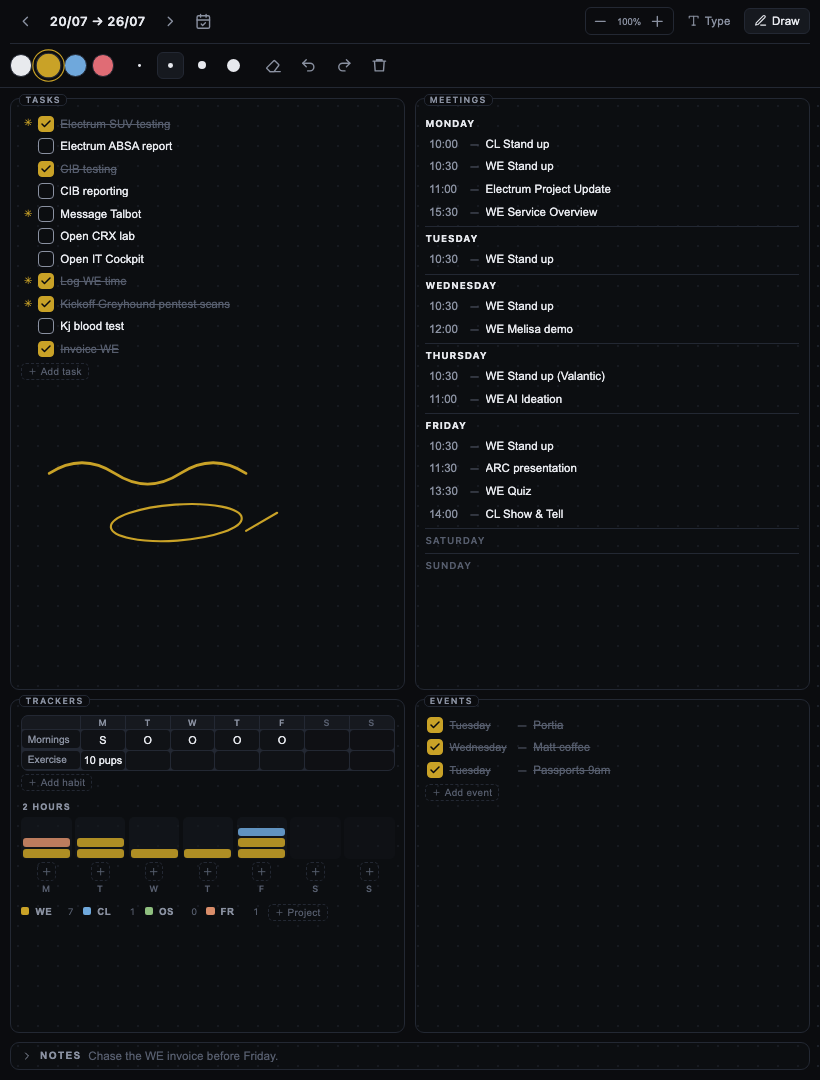
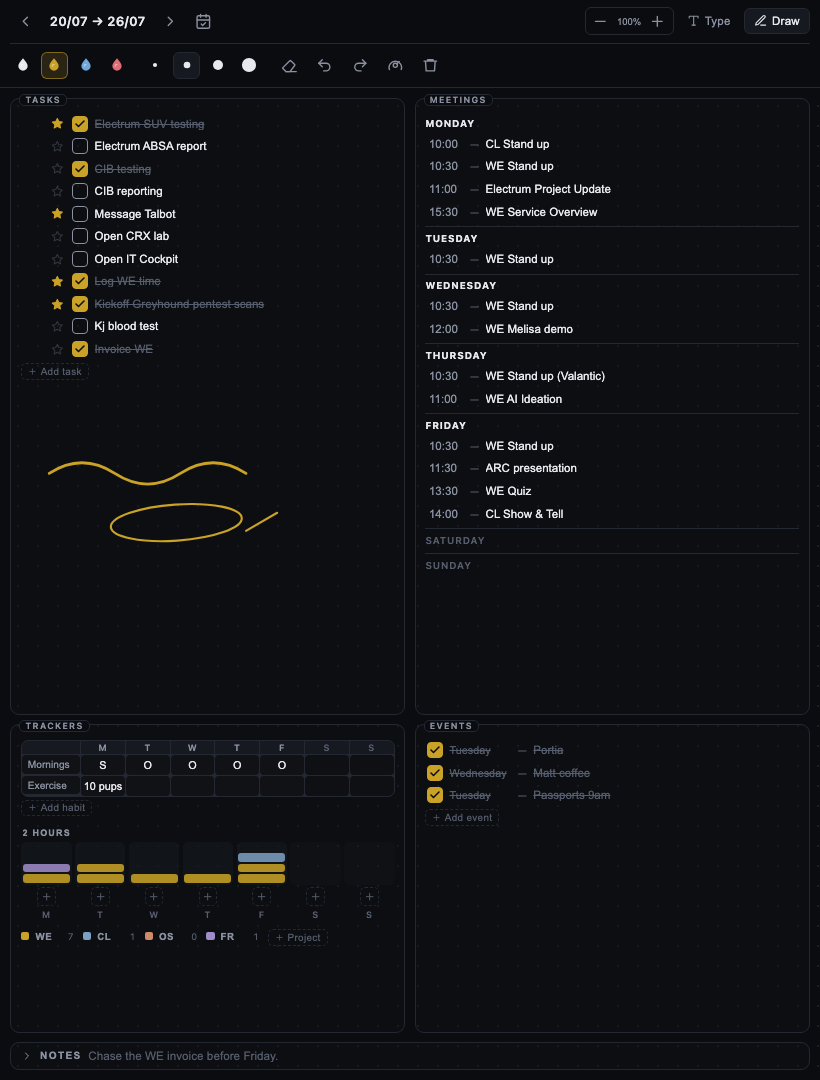
Fix the priority star, drop the greens, drag to reorder tasks, 2:1 rows
The star was a 1em by 1.2em button — about 13 by 16 pixels — drawn as a
text glyph, transparent until hover, and hidden altogether below 560px.
Small wonder it did not work: on a tablet there is no hover and almost
nothing to aim at. It is now a real star icon that is always visible,
hollow when off and filled when on, on a target big enough to hit, and it
stays on narrow screens because priority matters more than the pixels.

The green came from the time chart palette. That palette now runs gold,
steel blue, terracotta, muted purple, rose, slate and sand, with no green
in it.

Tasks can be dragged by a handle on the left to reorder. Pointer events
rather than HTML drag-and-drop, which does not work on a touch screen; the
row moves in the DOM as the pointer crosses its neighbours' midpoints, so
the order you see mid-drag is the order you get, and the model is rewritten
once on release.

The two panels across the top now take two thirds of the page and the foot
takes one.

diff --git a/src/view.ts b/src/view.ts
@@ -20,12 +20,12 @@ import type BulletPlugin from "./main";
 
 const PROJECT_COLORS = [
 	"#c9a227",
-	"#6fa8dc",
-	"#8fbf7f",
-	"#d98d6a",
-	"#a58fd0",
-	"#7fc7c0",
-	"#d07f9e",
+	"#7d9fc4",
+	"#cf8a6a",
+	"#a08cc9",
+	"#c98aa6",
+	"#9a9ab0",
+	"#d4b483",
 ];
 
 const PEN_WIDTH_STEPS = [1.4, 2.4, 4, 6.5];
@@ -532,13 +532,25 @@ export class BulletView extends TextFileView {
 		this.model.tasks.forEach((task, index) => {
 			const row = host.createDiv({ cls: "bl-row bl-task" });
 
+			const grip = row.createEl("button", { cls: "bl-grip" });
+			bulletIcon(grip, "grip");
+			grip.setAttr("aria-label", "Drag to reorder");
+			this.enableRowDrag(grip, row, host, (from, to) => {
+				const [moved] = this.model.tasks.splice(from, 1);
+				this.model.tasks.splice(to, 0, moved);
+				this.renderTasks();
+				this.touch();
+			});
+
 			const star = row.createEl("button", { cls: "bl-star" });
-			star.setText("✳");
+			bulletIcon(star, "star");
 			star.toggleClass("is-on", task.star);
 			star.setAttr("aria-label", "Flag as priority");
+			star.setAttr("aria-pressed", String(task.star));
 			star.onclick = () => {
 				task.star = !task.star;
 				star.toggleClass("is-on", task.star);
+				star.setAttr("aria-pressed", String(task.star));
 				this.touch();
 			};
 
@@ -952,6 +964,71 @@ export class BulletView extends TextFileView {
 		};
 
 		sync();
+	}
+
+	/**
+	 * Drag a row by its grip to reorder it.
+	 *
+	 * Pointer events rather than HTML drag-and-drop, which does not work on a
+	 * touch screen. The row is moved in the DOM as the pointer crosses its
+	 * neighbours' midpoints, so what you see during the drag is the order you
+	 * will get, and the model is only rewritten once on release.
+	 */
+	private enableRowDrag(
+		handle: HTMLElement,
+		row: HTMLElement,
+		host: HTMLElement,
+		onDrop: (from: number, to: number) => void
+	): void {
+		handle.addEventListener("pointerdown", (e: PointerEvent) => {
+			e.preventDefault();
+			const rowsNow = () =>
+				Array.from(host.querySelectorAll<HTMLElement>(".bl-row"));
+			const from = rowsNow().indexOf(row);
+			if (from < 0) return;
+
+			handle.setPointerCapture(e.pointerId);
+			row.addClass("is-dragging");
+			host.addClass("is-reordering");
+
+			const onMove = (ev: PointerEvent) => {
+				for (const other of rowsNow()) {
+					if (other === row) continue;
+					const rect = other.getBoundingClientRect();
+					const middle = rect.top + rect.height / 2;
+					const rowIsAfter =
+						other.compareDocumentPosition(row) &
+						Node.DOCUMENT_POSITION_FOLLOWING;
+
+					if (ev.clientY < middle && rowIsAfter) {
+						host.insertBefore(row, other);
+						break;
+					}
+					if (ev.clientY > middle && !rowIsAfter) {
+						host.insertBefore(row, other.nextSibling);
+						break;
+					}
+				}
+			};
+
+			const onUp = (ev: PointerEvent) => {
+				window.removeEventListener("pointermove", onMove);
+				window.removeEventListener("pointerup", onUp);
+				window.removeEventListener("pointercancel", onUp);
+				if (handle.hasPointerCapture(ev.pointerId)) {
+					handle.releasePointerCapture(ev.pointerId);
+				}
+				row.removeClass("is-dragging");
+				host.removeClass("is-reordering");
+
+				const to = rowsNow().indexOf(row);
+				if (to >= 0 && to !== from) onDrop(from, to);
+			};
+
+			window.addEventListener("pointermove", onMove);
+			window.addEventListener("pointerup", onUp);
+			window.addEventListener("pointercancel", onUp);
+		});
 	}
 
 	// -- small builders ----------------------------------------------------

diff --git a/styles.css b/styles.css
@@ -353,9 +353,9 @@
 	min-height: 0;
 	gap: var(--bl-gap);
 	grid-template-columns: 1fr 1fr;
-	/* fit-content caps the foot of the page: it hugs its content, but never
-	   takes more than 46% and starves the two tall panels. */
-	grid-template-rows: minmax(0, 1fr) minmax(0, fit-content(46%));
+	/* Two thirds to the top of the page, one third to the foot. minmax keeps
+	   the zero floor so a track can still shrink rather than overflow. */
+	grid-template-rows: minmax(0, 2fr) minmax(0, 1fr);
 	grid-template-areas:
 		"tasks meetings"
 		"trackers events";
@@ -527,30 +527,89 @@
 	text-decoration-thickness: 1px;
 }
 
-/* priority flag */
-.bullet-view .bl-star {
+/* drag handle */
+.bullet-view .bl-grip {
+	display: inline-flex;
+	align-items: center;
+	justify-content: center;
 	flex: 0 0 auto;
-	width: 1em;
-	height: 1.2em;
+	width: 1.4em;
+	height: 1.6em;
 	padding: 0;
 	border: none;
 	border-radius: 4px;
 	background: transparent;
 	box-shadow: none;
-	color: transparent;
-	font-size: 0.9em;
-	line-height: 1;
+	color: var(--bl-faint);
+	opacity: 0;
+	cursor: grab;
+	touch-action: none;
+	transition: opacity 120ms ease, color 120ms ease;
+}
+
+.bullet-view .bl-grip .bl-svg {
+	width: 0.85em;
+	height: 0.85em;
+}
+
+.bullet-view .bl-row:hover .bl-grip,
+.bullet-view .bl-grip:focus-visible {
+	opacity: 0.65;
+}
+
+.bullet-view .bl-grip:active {
+	cursor: grabbing;
+	opacity: 1;
+	color: var(--bl-text);
+}
+
+.bullet-view .bl-row.is-dragging {
+	background: var(--bl-raised);
+	box-shadow: 0 6px 18px rgb(0 0 0 / 0.45);
+	opacity: 0.96;
+}
+
+.bullet-view .bl-tasks.is-reordering .bl-row {
+	transition: none;
+}
+
+/* priority flag — always visible, and a target you can actually hit */
+.bullet-view .bl-star {
+	display: inline-flex;
+	align-items: center;
+	justify-content: center;
+	flex: 0 0 auto;
+	width: 1.6em;
+	height: 1.6em;
+	padding: 0;
+	border: none;
+	border-radius: 4px;
+	background: transparent;
+	box-shadow: none;
+	color: var(--bl-faint);
+	opacity: 0.5;
 	cursor: pointer;
-	transition: color 120ms ease;
+	transition: color 120ms ease, opacity 120ms ease;
+}
+
+.bullet-view .bl-star .bl-svg {
+	width: 0.95em;
+	height: 0.95em;
+	fill: none;
 }
 
 .bullet-view .bl-row:hover .bl-star {
-	color: var(--bl-faint);
+	opacity: 0.8;
 }
 
 .bullet-view .bl-star.is-on,
 .bullet-view .bl-row:hover .bl-star.is-on {
 	color: var(--bl-accent);
+	opacity: 1;
+}
+
+.bullet-view .bl-star.is-on .bl-svg {
+	fill: currentColor;
 }
 
 /* delete */
@@ -1008,8 +1067,9 @@
 		padding: 0 0.55em;
 	}
 
-	.bullet-view .bl-star {
-		display: none;
+	.bullet-view .bl-star,
+	.bullet-view .bl-grip {
+		width: 1.3em;
 	}
 }
 
@@ -1024,8 +1084,15 @@
 		opacity: 0.5;
 	}
 
+	.bullet-view .bl-grip {
+		opacity: 0.5;
+		width: 1.9em;
+		height: 2em;
+	}
+
 	.bullet-view .bl-star {
-		color: var(--bl-faint);
+		width: 2em;
+		height: 2em;
 	}
 }
 

diff --git a/src/icons.ts b/src/icons.ts
@@ -25,6 +25,8 @@ const PATHS: Record<string, string> = {
 	check: '<path d="M20 6 9 17l-5-5"/>',
 	file: '<path d="M14 2H6a2 2 0 0 0-2 2v16a2 2 0 0 0 2 2h12a2 2 0 0 0 2-2V8Z"/><path d="M14 2v6h6"/>',
 	test: '<path d="M9 3h6"/><path d="M10 3v6.5L5.2 18a2 2 0 0 0 1.7 3h10.2a2 2 0 0 0 1.7-3L14 9.5V3"/><path d="M6.5 15h11"/>',
+	star: 'M12 2.6l2.95 5.98 6.6.96-4.77 4.65 1.13 6.57L12 17.66l-5.91 3.1 1.13-6.57L2.45 9.54l6.6-.96z',
+	grip: '<path d="M4 9h16M4 15h16"/>',
 	gauge: '<path d="M12 15a3 3 0 1 0 0-6 3 3 0 0 0 0 6z"/><path d="m14.1 9.9 3.5-3.5"/><path d="M3.5 18a9 9 0 1 1 17 0"/>',
 };
 

diff --git a/README.md b/README.md
@@ -16,7 +16,7 @@ On a phone in portrait the two columns get genuinely narrow — it still works, 
 landscape is much more comfortable.
 
 - **One page per week**, created automatically, named `2026-W30.md` by default.
-- **Tasks** with tick boxes and a priority flag.
+- **Tasks** with tick boxes, a priority star, and drag-to-reorder.
 - **Meetings** grouped by day, each with a time.
 - **Events** — a dated checklist for the things that aren't meetings.
 - **Habit trackers** — a 7-column grid you fill in however you like: a tick, a
@@ -66,6 +66,7 @@ the current week is created if it doesn't exist yet.
 
 ### Keyboard
 
+- **Drag a task by the handle** on its left to reorder it.
 - **Enter** in any row adds a new row below it.
 - **Backspace** in an empty row deletes it.
 - **Up / Down** move between rows.
